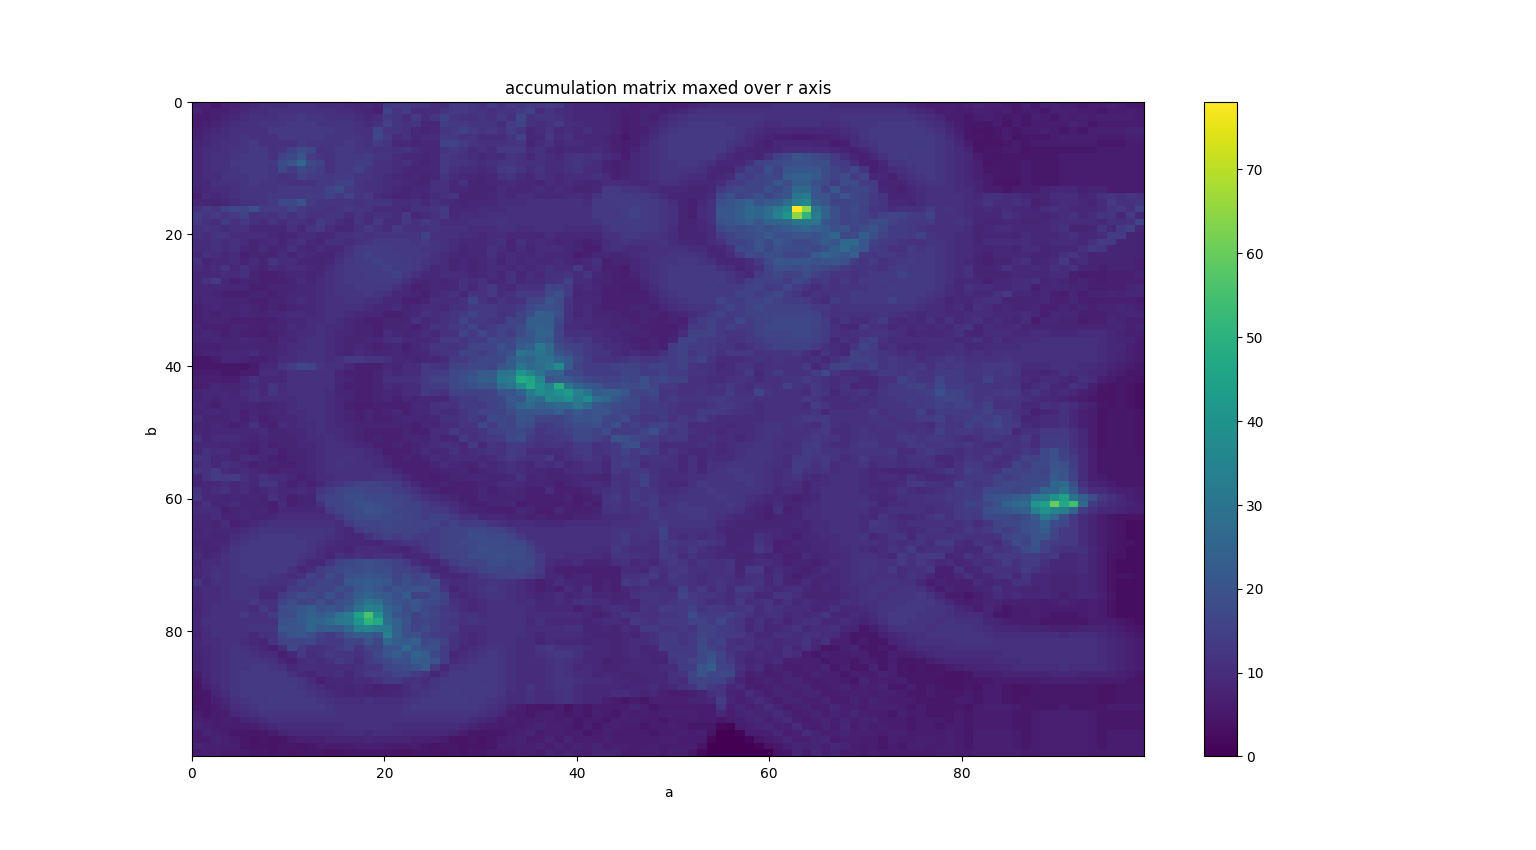
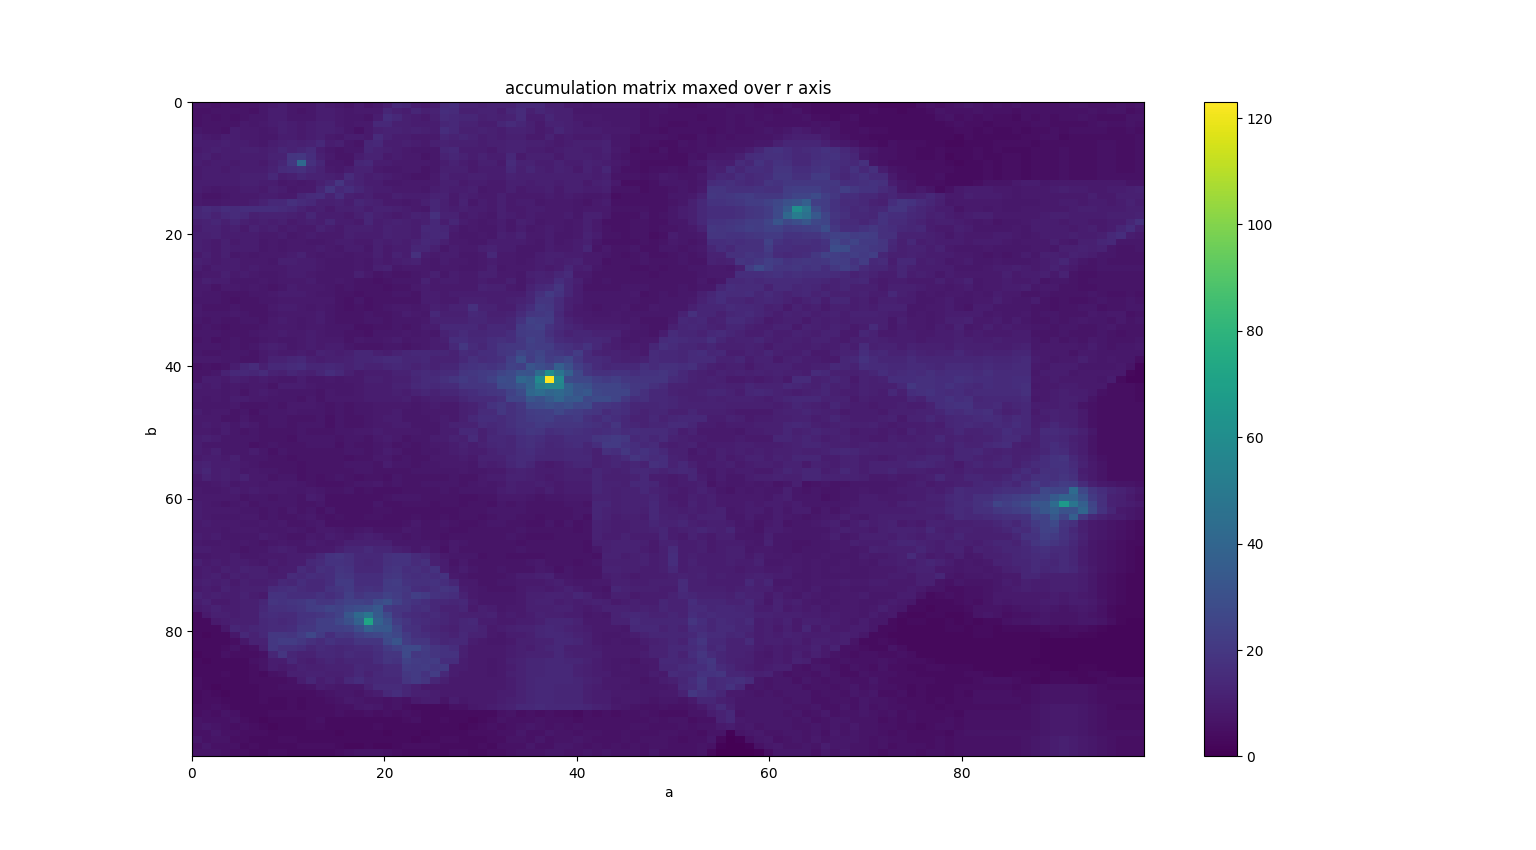
fix

diff --git a/assignment5/ex4b_a.py b/assignment5/ex4b_a.py
@@ -185,6 +185,8 @@ res = im3.copy()
 # https://docs.opencv.org/3.4/d4/d70/tutorial_hough_circle.html
 circles = cv2.HoughCircles(im, cv2.HOUGH_GRADIENT, 1, 10, param1=100, param2=8, minRadius=5, maxRadius=30)
 
+circles = np.uint16(np.around(circles))
+
 for xyr in circles[0, :]:
     # draw the outer circle
     res = cv2.circle(res, (xyr[0], xyr[1]), xyr[2], (0, 255, 0), 1)
